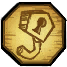
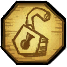
ui: 자물쇠 180° 회전 / 눈 vertical flip (v0.11.6)
- 자물쇠/해금/프레임: 180° 회전 (v0.11.4 상태로 복귀)
- 눈 아이콘: vertical flip (top-bottom mirror) — 0°와 180° 둘 다 사용자가 upside-down으로 인식해서 다른 변환 시도

diff --git a/src/lib/version.ts b/src/lib/version.ts
@@ -1,1 +1,1 @@
-export const APP_VERSION = "0.11.5";
+export const APP_VERSION = "0.11.6";
